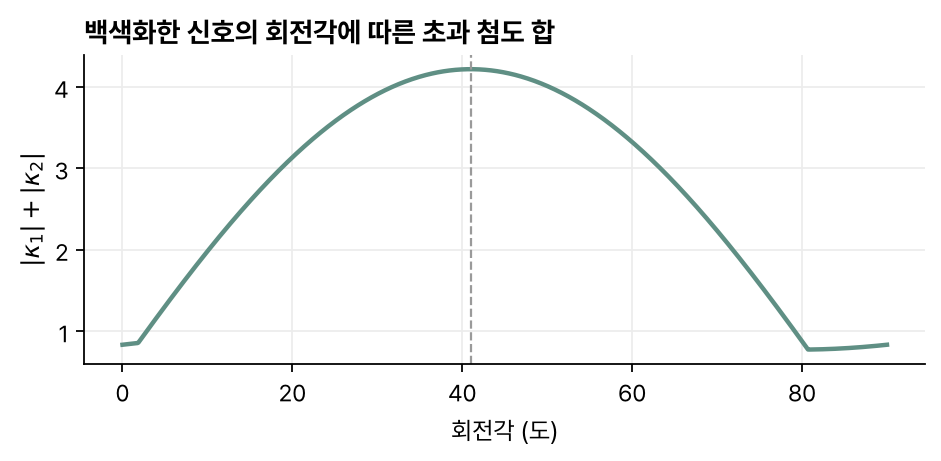
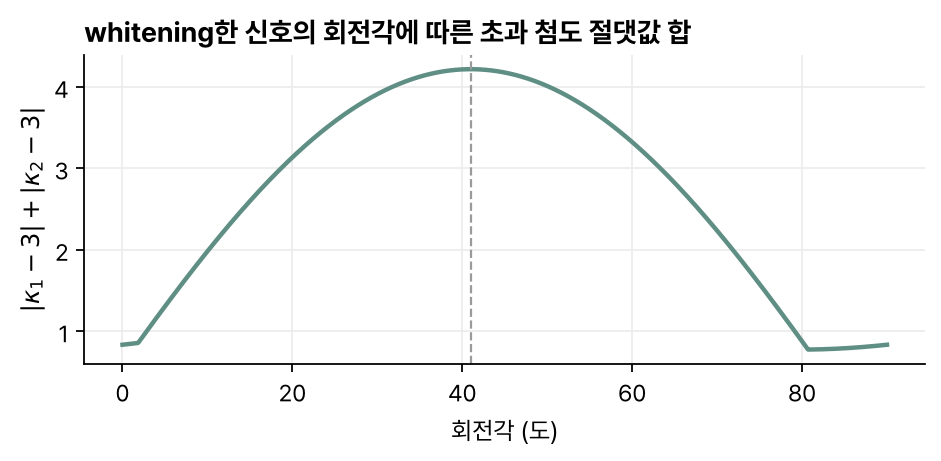
Fix review findings in ICA, ECG and neural interface notes
ICA: use s for sources and phi for the nonlinearity, qualify the
Gaussian-source claim, label facts beyond the lecture notes, write the
kurtosis convention explicitly. ECG: attribute rhythm mechanisms not in
the slides as beyond the lecture material and fix the complete AV block
sentence. Neural interface: wording and attribution fixes.

Claude-Session: https://claude.ai/code/session_01DRUnFxFn4g3T7a1hqi5YWp

diff --git a/scripts/figures/ica.py b/scripts/figures/ica.py
@@ -1,6 +1,6 @@
 """MIT HST.582J 블라인드 신호 분리 문서의 그림.
 
-두 원천(사인파와 라플라스 분포 잡음)을 2×2 행렬로 섞은 뒤, PCA로 백색화하고
+두 원천(사인파와 라플라스 분포 잡음)을 2×2 행렬로 섞은 뒤, PCA로 whitening하고
 첨도의 절댓값 합이 가장 큰 회전을 찾아 분리한다. 2차원이라 회전각을 격자로 훑는다.
 원천, 혼합 행렬, 표본 수는 예로 정한 값이고 모든 값은 직접 계산했다.
 """
@@ -8,16 +8,16 @@
 import numpy as np
 import matplotlib.pyplot as plt
 
-from style import BLUE, GRAY, ORANGE, RED, TEAL, save, setup
+from style import BLUE, GRAY, TEAL, save, setup
 
 setup()
 ARTICLE = "blind-source-separation"
 rng = np.random.default_rng(0)
 M = 2000
 t = np.arange(M)
-z = np.vstack([np.sqrt(2) * np.sin(2 * np.pi * t / 97.0), rng.laplace(0, 1 / np.sqrt(2), M)])
+s = np.vstack([np.sqrt(2) * np.sin(2 * np.pi * t / 97.0), rng.laplace(0, 1 / np.sqrt(2), M)])
 A = np.array([[1.0, 0.6], [0.4, 1.0]])
-x = A @ z
+x = A @ s
 
 
 def kurt(v):
@@ -25,7 +25,7 @@ def kurt(v):
     return np.mean(v**4) - 3
 
 
-# PCA 백색화
+# PCA whitening
 xc = x - x.mean(axis=1, keepdims=True)
 C = xc @ xc.T / M
 d, E = np.linalg.eigh(C)
@@ -43,7 +43,7 @@ R = np.array([[np.cos(a_best), -np.sin(a_best)], [np.sin(a_best), np.cos(a_best)
 y = R @ w
 
 fig, axes = plt.subplots(1, 4, figsize=(11.5, 3.1))
-panels = [(z, "원천 $z$"), (x, "혼합 $x = Az$"), (w, "PCA 백색화"), (y, "첨도 최대화 회전")]
+panels = [(s, "원천 $s$"), (x, "혼합 $x = As$"), (w, "whitening"), (y, "첨도 최대화 회전")]
 for ax, (v, name) in zip(axes, panels):
     ax.plot(v[0], v[1], ".", color=BLUE, ms=1.5, alpha=0.5)
     ax.set_title(name, loc="left")
@@ -57,14 +57,14 @@ fig, ax = plt.subplots(figsize=(6, 3))
 ax.plot(np.degrees(angles), score, color=TEAL, lw=2)
 ax.axvline(np.degrees(a_best), color=GRAY, ls="--", lw=1)
 ax.set_xlabel("회전각 (도)")
-ax.set_ylabel("$|\\kappa_1| + |\\kappa_2|$")
-ax.set_title("백색화한 신호의 회전각에 따른 초과 첨도 합", loc="left")
+ax.set_ylabel("$|\\kappa_1 - 3| + |\\kappa_2 - 3|$")
+ax.set_title("whitening한 신호의 회전각에 따른 초과 첨도 절댓값 합", loc="left")
 fig.tight_layout()
 save(fig, ARTICLE, "kurtosis-vs-angle.png")
 
-print("excess kurtosis sources:", [round(float(kurt(r)), 2) for r in z])
+print("excess kurtosis sources:", [round(float(kurt(r)), 2) for r in s])
 print("excess kurtosis mixtures:", [round(float(kurt(r)), 2) for r in x])
 print("excess kurtosis whitened:", [round(float(kurt(r)), 2) for r in w])
 print("excess kurtosis ICA:", [round(float(kurt(r)), 2) for r in y], "best angle", round(float(np.degrees(a_best)), 1))
-cc = np.corrcoef(np.vstack([z, y]))[:2, 2:]
+cc = np.corrcoef(np.vstack([s, y]))[:2, 2:]
 print("|corr(source, estimate)|:\n", np.round(np.abs(cc), 3))

diff --git a/content/courses/mit-hst582j/blind-source-separation.md b/content/courses/mit-hst582j/blind-source-separation.md
@@ -16,6 +16,8 @@ $$
 
 기본적인 잡음 없는 정방 모형에서 A는 가역이라고 가정한다. 시간에 따른 지연과 주파수별 경로가 크면 순간혼합만으로 충분하지 않다. 관측보다 원천이 많으면 추가 가정 없이는 단순 행렬 역산으로 풀 수 없다.
 
+강의 노트는 칵테일 파티 문제로 블라인드 신호 분리를 설명한다. 여러 사람의 목소리를 같은 수의 마이크로 녹음하면 각 녹음은 목소리들의 가중 선형 합이고, 분리 행렬 $W \approx A^{-1}$을 찾으면 원천을 되찾는다. 원천이 서로 독립이면 결합 밀도는 각 원천 밀도의 곱 $P(s) = \prod_i p(s_i)$다.
+
 새 계산 예 $A=\begin{bmatrix}1&1\\1&-1\end{bmatrix}$에서 원천이 (2,1)ᵀ이면 관측은 (3,1)ᵀ다. A를 안다면 $A^{-1}=A/2$로 원천을 복원한다. Blind 문제에서는 A와 s를 모르기 때문에 관측의 통계적 구조에 추가 가정을 둔다.
 
 ## 중심화와 whitening
@@ -36,8 +38,6 @@ Whitening 뒤의 회전을 찾아 성분 간 의존성을 줄이거나 비정규
 
 ## 비정규성과 첨도
 
-강의 노트는 칵테일 파티 문제로 블라인드 신호 분리를 설명한다. $J$명의 목소리를 $N$개의 마이크로 녹음하면 각 녹음은 목소리들의 가중 선형 합이고, 분리 행렬 $W \approx A^{-1}$을 찾으면 원천을 되찾는다. 원천이 서로 독립이면 결합 밀도는 각 원천 밀도의 곱 $P(s) = \prod_i p(s_i)$다. 강의 노트는 원천과 관측의 수가 같다고 두고, 관측보다 많은 원천은 일반 ICA로 되찾을 수 없다고 적는다.
-
 ICA가 비정규성을 독립성의 기준으로 쓰는 근거는 중심극한정리다. 독립인 확률변수를 더하면 분포가 정규분포에 가까워지므로, 반대로 관측을 되도록 비정규인 성분들로 나누면 그 성분들은 독립에 가깝다. 분산(2차 모멘트)은 독립인 정규 잡음 원천을, 첨도 같은 고차 통계는 비정규인 독립 원천을 나눈다.
 
 $n$차 중심 모멘트를 $\upsilon_n = E\{(x - \mu_x)^n\}$이라 하면 3차를 $\sigma^3$으로 나눈 값이 비대칭도이고, 4차를 $\sigma^4$로 나눈 값이 **첨도**다.
@@ -46,10 +46,10 @@ $$
 \kappa = \frac{E\{(x - \mu_x)^4\}}{\sigma^4}
 $$
 
-정규분포의 첨도는 3이고, 3을 빼서 정규분포를 0으로 맞춘 초과 첨도를 쓰는 관례도 있다. 강의 노트는 3을 빼지 않는 관례를 따르고, 여기서는 초과 첨도를 쓴다. 초과 첨도가 양수이면 정규분포보다 뾰족하고 꼬리가 긴 초정규 분포, 음수이면 더 납작한 아정규 분포다. 사인파는 아정규(초과 첨도 −1.5)이고 라플라스 분포는 초정규(초과 첨도 3)다. 강의 노트는 전원 잡음이 사인파여서 평균 근처보다 극값 근처에 오래 머문다는 점을 정규 잡음 모형이 맞지 않는 예로 든다.
+정규분포의 첨도는 3이고, 3을 빼서 정규분포를 0으로 맞춘 초과 첨도 $\kappa - 3$을 쓰는 관례도 있다. 강의 노트는 본문과 각주에서 3을 빼지 않는 관례를 따르지만, 분포 예를 보여 주는 그림의 값은 초과 첨도로 적는다. 이 글의 수치는 초과 첨도다. 초과 첨도가 양수이면 정규분포보다 뾰족하고 꼬리가 긴 초정규 분포, 음수이면 더 납작한 아정규 분포다. 사인파는 아정규(초과 첨도 −1.5)이고, 라플라스 분포는 초정규(초과 첨도 3, 강의 자료 밖의 값)다. 강의 노트는 전원 잡음이 사인파여서 평균 근처보다 극값 근처에 오래 머문다는 점을 정규 잡음 모형이 맞지 않는 예로 든다.
 
 ![[../../images/blind-source-separation/ica-scatter.png]]
-*그림 1. 사인파와 라플라스 잡음 두 원천(왼쪽)을 행렬 $A = [[1, 0.6], [0.4, 1]]$로 섞은 관측, 중심화와 whitening 결과, whitening한 신호를 회전해 초과 첨도의 절댓값 합을 최대화한 결과(오른쪽)의 산점도. 표본 2000개이고, 원천과 혼합 행렬은 예로 정한 값이다. 직접 계산한 값이다.*
+*그림 1. 사인파와 라플라스 잡음 두 원천(왼쪽)을 행렬 $A = \begin{bmatrix}1&0.6\\0.4&1\end{bmatrix}$로 섞은 관측, 중심화와 whitening 결과, whitening한 신호를 회전해 초과 첨도의 절댓값 합을 최대화한 결과(오른쪽)의 산점도. 표본 2000개이고, 원천과 혼합 행렬은 예로 정한 값이다. 직접 계산한 값이다.*
 
 그림 1에서 원천의 초과 첨도는 −1.49와 2.73이다. 섞으면 −0.49와 2.10, whitening하면 0.12와 0.71로 둘 다 0에 가까워진다. whitening은 상관을 없애지만 원천을 되찾지 못한다. whitening한 신호를 회전하며 초과 첨도의 절댓값 합을 재면 약 41°에서 최대가 되고(그림 2), 이때 두 성분의 초과 첨도는 −1.49와 2.72로 원천과 같아지며, 추정 성분과 원천의 상관계수 절댓값은 1.00이다(직접 계산한 값, 강의 자료 밖의 예).
 
@@ -68,13 +68,13 @@ $$
 J(y) = H(y_G) - H(y)
 $$
 
-는 비정규성의 척도가 된다. $y_G$는 $y$와 공분산이 같은 정규 확률변수다. 네겐트로피는 늘 0 이상이고 $y$가 정규일 때만 0이며, 가역 선형 변환에 대해 변하지 않는다. 확률밀도를 추정해야 해 계산이 어려우므로 근사를 쓴다.
+는 비정규성의 척도가 된다. $y_G$는 $y$와 공분산이 같은 정규 확률변수다. 네겐트로피는 늘 0 이상이고 $y$가 정규일 때만 0이다. 벡터 전체의 네겐트로피는 가역 선형 변환에 대해 변하지 않지만, 출력 하나하나의 네겐트로피는 분리 행렬에 따라 달라진다. 확률밀도를 추정해야 해 계산이 어려우므로 근사를 쓴다.
 
 $$
-J(y) \approx \frac{1}{12}E\{y^3\}^2 + \frac{1}{48}\kappa(y)^2, \qquad J(y) \approx \big[E\{g(y)\} - E\{g(\vartheta)\}\big]^2
+J(y) \approx \frac{1}{12}E\{y^3\}^2 + \frac{1}{48}\big(\kappa(y) - 3\big)^2, \qquad J(y) \approx \big[E\{g(y)\} - E\{g(\vartheta)\}\big]^2
 $$
 
-첫 근사의 $\kappa$는 초과 첨도다. 둘째 근사의 $\vartheta$는 평균 0, 분산 1인 정규 확률변수이고, $g$는 $\frac{1}{\alpha}\ln\cosh(\alpha y)$ ($1 \le \alpha \le 2$)나 $-e^{-y^2/2}$ 같은 2차가 아닌 함수다. 원문의 이 식들은 문자 추출 과정에서 거듭제곱이 빠져 보여, 둘째 근사식의 제곱과 $g(y) = y^4$에서 첨도로 돌아간다는 설명은 맞춰 읽은 것이다.
+첫 근사는 초과 첨도 $\kappa - 3$으로 적었다. 강의 노트는 이를 밝히지 않으며, 3을 빼지 않으면 정규분포에서 근사가 0이 되지 않는다(Hyvärinen 등의 형태). 둘째 근사의 $\vartheta$는 평균 0, 분산 1인 정규 확률변수이고, $g$는 $\frac{1}{\alpha}\ln\cosh(\alpha y)$ ($1 \le \alpha \le 2$)나 $-e^{-y^2/2}$ 같은 2차가 아닌 함수다. $g(y) = y^4$로 두면 둘째 근사는 첨도 기준으로 돌아간다. 원문 식에서 지수를 읽을 수 없어 둘째 근사의 제곱은 표준 형태로 적었다.
 
 ### 상호정보량
 
@@ -88,29 +88,29 @@ $$
 I(y_1, \dots, y_M) = c - \sum_{i} J(y_i)
 $$
 
-이다. 출력 사이의 상호정보량을 최소화하는 일은 각 출력의 네겐트로피를 최대화하는 일과 같다. 강의 노트의 한 각주는 네겐트로피를 0에 가깝게 만든다고 적지만, 위 식과 맞추면 네겐트로피를 크게 만드는 쪽이 독립 성분에 다가가는 방향이다.
+이다. 출력 사이의 상호정보량을 최소화하는 일은 각 출력의 네겐트로피를 최대화하는 일과 같다. 강의 노트의 본문과 각주는 네겐트로피를 최소화하거나 0에 가깝게 한다고 적는다. 같은 각주가 원천을 최대한 비정규로 만든다고 덧붙이고, 위 식과도 맞추면 네겐트로피를 최대화하는 쪽이 독립 성분에 다가가는 방향이다.
 
 ### 최대가능도
 
-원천이 서로 독립이고 각각 가정한 분포 $p_i$를 따르며 관측에 잡음이 없다고 두면, 원천을 주변화해 얻는 로그 가능도는
+원천이 서로 독립이고 각각 가정한 분포 $p_i$를 따르며 관측에 잡음이 없다고 두면, 원천을 주변화해 얻는 표본 하나의 로그 가능도는
 
 $$
 \mathcal{L}(W) = \log_2\vert\det W\vert + \sum_i \log_2 p_i\Big(\sum_j w_{ij}x_j\Big)
 $$
 
-이고, 이를 최대화하는 $W$를 찾는다.
+이고, 이를 모든 표본에 대해 더한 값을 최대화하는 $W$를 찾는다.
 
 ## 경사 상승과 비선형 함수
 
-분리 행렬의 원소는 $\Delta w_{ij} = \eta\,\partial\mathcal{L}/\partial w_{ij}$로 반복 갱신한다($\eta$는 학습률). 로그 가능도의 기울기를 오르면 Bell과 Sejnowski의 학습 규칙 $\Delta W \propto [W^T]^{-1} + \mathbf{z}\mathbf{x}^T$를 얻는다. 여기서 $\mathbf{z}$는 출력에 비선형 함수 $f$를 적용한 값이다.
+분리 행렬의 원소는 $\Delta w_{ij} = \eta\,\partial\mathcal{L}/\partial w_{ij}$로 반복 갱신한다($\eta$는 학습률). 로그 가능도의 기울기를 오르면 Bell과 Sejnowski의 학습 규칙 $\Delta W \propto [W^T]^{-1} + \varphi(\mathbf{y})\mathbf{x}^T$를 얻는다. 여기서 $\varphi$는 출력 $\mathbf{y} = W\mathbf{x}$의 각 성분에 적용하는 비선형 함수다.
 
-비선형 함수의 선택은 원천 분포에 대한 가정과 같다. $f(y_i) = -\tanh(\beta y_i)$는 정규분포보다 꼬리가 무거운 $p_i \propto 1/\cosh$를 가정하는 것이고, $\beta$가 커지면 양쪽 지수분포에, 0에 가까워지면 정규분포에 다가간다. 비선형 함수가 없으면($f(y_i) \propto -y_i$) 원천을 정규분포로 가정하는 셈이고 학습은 2차 비상관화, 곧 PCA와 같은 일을 한다. 정규분포는 회전해도 모양이 같아 축을 고를 정보가 없으므로, 일반 ICA는 비정규 원천만 분리한다.
+비선형 함수의 선택은 원천 분포에 대한 가정과 같다. $\varphi(y_i) = -\tanh(\beta y_i)$는 정규분포보다 꼬리가 무거운 $p_i \propto 1/\cosh$를 가정하는 것이고, $\beta$가 커지면 양쪽 지수분포에, 0에 가까워지면 정규분포에 다가간다. 비선형 함수가 없으면($\varphi(y_i) \propto -y_i$) 원천을 정규분포로 가정하는 셈이고 학습은 2차 비상관화, 곧 PCA와 같은 일을 한다. 강의 노트는 이를 일반 ICA가 비정규 원천만 분리하는 이유로 든다. 정규 원천이 둘 이상이면 그 사이의 회전을 정할 수 없다(위의 «PCA와 독립성» 절).
 
 ## 심전도 적용과 한계
 
 강의 노트는 3 리드 심전도 10초에 ICA를 적용해 심전도, 첨도가 높은 순간적 움직임 아티팩트, 첨도가 낮은 연속 관측 잡음의 세 원천으로 나눈 예를 든다. 대역 안에 있는 QRS 같은 뾰족한 아티팩트도 따로 떼어 낸다. 강의 노트가 드는 한계는 셋이다.
 
-- 정상 혼합: 숨을 들이쉬면 가슴이 커지고 심장이 조금 내려가며 회전해, 혼합 행렬이 호흡 주기로 변한다. 고정 혼합 가정은 회전각이 작을 때만 성립하고, 리드 배치에 따라 ICA의 효과가 다른 주요 원인이다.
+- 고정 혼합: 숨을 들이쉬면 가슴이 커지고 심장이 조금 내려가며 회전해, 혼합 행렬이 호흡 주기로 변한다. 강의 노트는 회전이 작을 때 고정 혼합 가정이 근사로 성립한다고 보고, 이것을 리드 배치에 따라 ICA의 효과가 달라지는 주요 원인으로 든다.
 - 독립성: 피험자의 활동이 갑자기 늘면 근육 아티팩트와 함께 심박수나 박동 모양이 바뀔 수 있다. 둘이 강하게 관련되면 ICA로 나눌 수 없다.
 - 원천의 수: 두 귀로 여러 화자를 듣는 경우처럼 원천이 더 많으면 과소결정이고, 12 리드 심전도처럼 관측이 더 많으면 원천 수를 몇 개로 가정하느냐에 따라 각 원천의 추정이 달라진다.
 
@@ -124,7 +124,6 @@ $$
 
 - 독립 성분 수와 생물학적 발생원 수를 자동으로 동일시하지 않는다.
 - 분리된 성분의 낮은 상관만으로 독립성을 입증하지 않는다.
-- 비정상성·움직임·혼합 행렬 변화가 큰 기록에는 고정 A 가정의 한계가 있다.
 - 첨도는 0을 정규분포로 두는 관례와 3을 정규분포로 두는 관례가 함께 쓰인다. 값을 비교할 때 어느 관례인지 확인한다.
 
 ## 관련 개념
@@ -132,7 +131,7 @@ $$
 - [[pca-svd|PCA와 SVD]]
 - [[covariance-matrix|공분산 행렬]]
 - [[expectation-variance-covariance|무상관과 독립]]
-- [[probability-random-variables|확률변수]]: 중심극한정리와 모멘트
+- [[probability-random-variables|확률변수]]: 중심극한정리
 
 ## 참고 자료
 

diff --git a/content/my-courses/neural-interface/wireless-power-telemetry.md b/content/my-courses/neural-interface/wireless-power-telemetry.md
@@ -16,11 +16,11 @@ description: 이식형 신경 기록 장치가 선 없이 데이터를 보내고
 - 인공와우: 한 쌍의 코일을 유도 결합해 피부 너머로 데이터와 전력을 함께 보낸다.
 - 뇌심부 자극기(DBS): 몸의 다른 곳에 둔 장치에서 피하 전선으로 전력과 데이터를 받는다.
 
-두 방식 모두 해마다 수십만 개가 이식된다. 신경 기록 장치는 구조를 단순하게 하고 인허가 부담을 덜기 위해 이 방식을 따르며, 특히 인공와우의 유도 결합 방식을 원격 측정과 전력 전달에 널리 쓴다.
+두 방식을 합쳐 해마다 수십만 개가 이식된다. 신경 기록 장치는 구조를 단순하게 하고 인허가 부담을 덜기 위해 이 방식을 따르며, 특히 인공와우의 유도 결합 방식을 원격 측정과 전력 전달에 널리 쓴다.
 
 ## 데이터 전송
 
-여러 채널의 세포 밖 활동 전위를 동시에 기록하면 앞단 회로뿐 아니라 전압 제어 발진기, 전력 증폭기, LC 탱크 같은 무선 송수신 회로에도 부담이 생긴다. 100채널 기록의 데이터율은 보통 50 Mbps 아래여서 데이터율 자체보다, 좁은 전력 예산 안에서 충실한 링크를 유지하는 일이 어렵다. 전력 소모는 열로 조직을 손상시킬 수 있고, 신경 증폭기는 100채널에 mW 수준만 쓰도록 설계하므로 송신기도 같은 수준의 예산 안에서 동작해야 한다.
+여러 채널의 세포 밖 활동 전위를 동시에 기록하면 앞단 회로뿐 아니라 전압 제어 발진기, 전력 증폭기, LC 탱크 같은 무선 송수신 회로에도 부담이 생긴다. 100채널 기록의 데이터율은 보통 50 Mbps 아래여서 데이터율 자체보다, 좁은 전력 예산 안에서 신호를 잃지 않고 전하는 링크를 유지하는 일이 어렵다. 전력 소모는 열로 조직을 손상시킬 수 있고, 일부 신경 증폭기 설계는 100채널에 mW 수준만 쓰므로 송신기도 비슷한 예산 안에서 동작해야 한다.
 
 | 방식 | 특징 |
 | --- | --- |
@@ -33,7 +33,7 @@ description: 이식형 신경 기록 장치가 선 없이 데이터를 보내고
 
 ## 유도 결합 전력 전달
 
-유도 결합 링크는 몸 안 2차 코일이 전력 전송 거리에 비해 비교적 클 때만 효율적이어서, 이식 장치의 크기가 2차 코일 크기로 정해지는 경우가 많다. 원문은 네 개의 높은 Q 코일로 이루어진 공진형 무선 전력 전달이 더 먼 거리에서 효율을 얻은 예를 든다.
+유도 결합은 전송 거리에 견주어 몸 안 코일이 충분히 커야 효율이 나온다. 그래서 이식 장치 전체의 크기를 코일이 정하는 일이 많다. 원문은 네 개의 높은 Q 코일로 이루어진 공진형 무선 전력 전달이 더 먼 거리에서 효율을 얻은 예를 든다.
 
 이 관계를 두 원형 고리로 계산해 볼 수 있다(이 절의 식과 그림 1은 원문 밖의 계산이다). 두 코일의 상호 인덕턴스 $M$과 자기 인덕턴스 $L_1$, $L_2$로 **결합 계수**를 $k = M/\sqrt{L_1L_2}$로 정의한다. 두 코일이 각각 공진하고 부하를 최적으로 맞추면 링크 효율의 최댓값은
 
@@ -44,7 +44,7 @@ $$
 로 $k^2Q_1Q_2$ 하나로 정해진다. 결합이 약해도 $Q$가 크면 효율을 되찾을 수 있으므로, 높은 Q 공진 코일이 먼 거리 전력 전달에 쓰인다.
 
 ![[../../images/wireless-power-telemetry/coupling-efficiency.png]]
-*그림 1. 왼쪽은 같은 축 위의 두 원형 고리(외부 반지름 15 mm, 도선 반지름 0.1 mm)에서 이식 고리 반지름과 거리에 따른 결합 계수다. 오른쪽은 결합 계수와 두 코일의 Q에 따른 최대 링크 효율이다. 크기와 Q는 예로 정한 값이고, 상호 인덕턴스는 타원 적분으로 직접 계산했다.*
+*그림 1. 왼쪽은 같은 축 위의 두 원형 고리(외부 고리 반지름 15 mm, 도선 반지름 0.1 mm)에서 이식 고리 반지름과 거리에 따른 결합 계수다. 오른쪽은 결합 계수와 두 코일의 Q에 따른 최대 링크 효율이다. 크기와 Q는 예로 정한 값이고, 상호 인덕턴스는 타원 적분으로 직접 계산했다.*
 
 그림 1의 예에서 거리 10 mm일 때 이식 고리 반지름이 10 mm이면 $k \approx 0.092$이고, $Q_1 = Q_2 = 50$에서 최대 효율은 약 65%다. 반지름을 3 mm로 줄이면 $k \approx 0.019$, 효율은 약 16%로, 1 mm로 줄이면 $k \approx 0.0045$, 효율은 약 1.2%로 떨어진다. 같은 1 mm 고리라도 Q를 200으로 높이면 효율이 약 15%로 오른다(직접 계산한 값).
 
@@ -54,17 +54,17 @@ $$
 
 - 중간장 전력 전달: 슬롯 안테나 같은 특수한 송신원이 멀리 떨어진 목표 위치에 초점을 맞춘 방사 패턴을 만든다. 조직 모사 용액 안에서 1.6 GHz로 동작하는 2 mm 수신 코일에 5.5 cm 거리에서 입력 500 mW로 200 µW를 전달했다. 신경 기록까지 시연하지는 않았다.
 - 광 전력 전달: 탠덤 3중 접합 GaAs/AlGaAs 광전지로 외부 레이저의 적외선 빛을 12 mW 전력으로 바꿔 16채널 기록 장치를 마취한 쥐에서 동작시켰다. 광전지는 들어오는 빛에서 동기 클록도 뽑아 순방향 원격 측정 역할도 한다.
-- 초음파 전력 전달: 외부 질문기의 초음파로 아주 작은 센서 노드(신경 먼지)에 전력을 주고, 노드는 초음파 후방 산란에 신경 데이터를 실어 돌려보낸다. 실제 신경 기록은 보고되지 않았고, 저자들은 뇌 속 2 mm에 묻힌 100 µm 크기 노드에서 약 7%의 효율을 시뮬레이션으로 제시했다.
+- 초음파 전력 전달: 외부 송수신기의 초음파로 아주 작은 센서 노드(신경 먼지)에 전력을 주고, 노드는 초음파 후방 산란에 신경 데이터를 실어 돌려보낸다. 실제 신경 기록은 보고되지 않았고, 저자들은 뇌 속 2 mm에 묻힌 100 µm 크기 노드에서 약 7%의 효율을 시뮬레이션으로 제시했다.
 
 ## 봉지
 
-능동 전자 회로를 체액과 몸에서 분리하는 일은 이식 의료기기에서 가장 중요한 문제 가운데 하나다. 만성 신경 기록 장치는 열 발산이 작고 패키지가 아주 얇아야 한다는 조건이 더해진다. 봉지의 목적은 세 가지다.
+이식 의료기기는 능동 전자 회로를 체액과 몸에서 떼어 놓아야 하고, 원문은 이것을 가장 중요한 과제 가운데 하나로 꼽는다. 만성 신경 기록 장치는 열 발산이 작고 패키지가 아주 얇아야 한다는 조건이 더해진다. 봉지의 목적은 세 가지다.
 
 1. 생체 적합하지 않은 재료로부터 몸을 보호한다.
 2. 체액으로부터 전자 회로를 보호한다.
 3. 기계적 응력으로부터 조립체를 보호한다.
 
-핵심은 물과 물에 녹은 이온이 장벽을 어느 방향으로든 통과하지 못하게 하는 것이다. 티타늄이나 유리로 밀봉한 패키지는 생체 적합성이 좋고 물과 기체 투과율이 매우 낮으며 튼튼하지만 크다. 초기 장치에는 다루기 쉽고 생체 적합한 PDMS(실리콘 엘라스토머)를 두껍게 입혔고, 물에 약한 부분일수록 두께를 달리하기도 했다. 최근에는 물 흡수와 투과가 훨씬 적은 열가소성 고분자인 액정 고분자(LCP)를 봉지재나 유연 기판으로 쓴다.
+봉지 장벽은 물과 물에 녹은 이온을 어느 방향으로도 통과시키지 않아야 한다. 티타늄이나 유리로 밀봉한 패키지는 생체 적합성이 좋고 물과 기체 투과율이 매우 낮으며 튼튼하지만 크다. 초기 장치에는 다루기 쉽고 생체 적합한 PDMS(실리콘 엘라스토머)를 두껍게 입혔고, 물에 약한 정도가 부분마다 달라 장벽 두께를 부분마다 달리했다. 최근에는 물 흡수와 투과가 훨씬 적은 열가소성 고분자인 액정 고분자(LCP)를 봉지재나 유연 기판으로 쓴다.
 
 ## 유의점
 
@@ -80,7 +80,7 @@ $$
 - [[asbit-wireless-sensor-network|논문: ASBIT 무선 센서 네트워크]]: 많은 무선 센서의 비동기 데이터 전송
 - [[neurograin-wireless-microimplants|논문: 뉴로그레인]]: 무선 미세 이식체 네트워크
 - [[patterned-wireless-brain-stimulation|논문: 분산 무선 칩 뇌 자극]]: 무선 이식 칩 네트워크로 하는 뇌 자극
-- [[modulation|변조]]: FM과 주파수 편이
+- [[modulation|변조]]: FM
 
 ## 참고 자료
 

diff --git a/content/my-courses/neural-interface/electrode-tissue-interface.md b/content/my-courses/neural-interface/electrode-tissue-interface.md
@@ -24,25 +24,25 @@ description: 뇌에 심은 미세전극의 기록 성능이 시간에 따라 떨
 
 세포들은 시점을 달리해 모인다. 몇 시간 안에 대식세포가 도착하고 주변의 미세아교세포가 이동해 오며, 약 1주 뒤에는 희돌기교세포 전구세포가 모이고, 뇌막을 지나 손상되었으면 뇌막 내피세포도 들어온다. 마지막으로 성상세포가 천천히 이동해 신경교 흉터를 만든다. 흉터 조직의 대부분이 늘어나거나 이동해 온 성상세포여서, 성상세포 표지 단백질(GFAP) 면역조직화학 염색이 손상 정도를 재는 흔한 방법이다.
 
-신경교증은 혈관이 터지면서 시작된다고 받아들여진다. 혈액의 TGF-β 같은 분자가 성상세포 증식을 일으키고, 인터페론-γ와 인터류킨 같은 사이토카인이 염증 반응에 참여한다. 전극을 삽입하면 혈뇌장벽을 포함한 조직 손상이 피할 수 없이 따른다.
+신경교증은 혈관이 손상되면서 시작된다고 받아들여진다. 혈액의 TGF-β 같은 분자가 성상세포 증식을 일으키고, 인터페론-γ와 인터류킨 같은 사이토카인이 염증 반응에 참여한다. 전극을 삽입하면 혈뇌장벽을 포함한 조직 손상이 피할 수 없이 따른다.
 
-신경퇴행 질환에서 신경교증은 주변 조직을 보호하고 손상 부위를 격리하는 반응으로 여겨지지만, 뇌-컴퓨터 인터페이스에서는 바라지 않는 반응이다. 장기 반응으로 생긴 피막은 두께가 수백 µm에 이를 수 있고, 절연층처럼 작용해 전극-전해질 경계의 전기화학 임피던스를 크게 높이며 뉴런이 전극 가까이 오는 것을 막는다. 신경교 반응의 정도는 혈관 손상에 따라 달라 임피던스 증가가 전극마다 고르지 않고, 이것이 기록이 불안정해지고 전극이 기능을 잃는 원인이 된다.
+신경퇴행 질환에서 신경교증은 주변 조직을 보호하고 손상 부위를 격리하는 반응으로 여겨지지만, 뇌-컴퓨터 인터페이스에서는 바라지 않는 반응이다. 장기 반응으로 생긴 피막은 두께가 수백 µm에 이를 수 있고, 절연층처럼 작용해 전극-전해질 경계의 전기화학 임피던스를 크게 높이며 뉴런이 전극 가까이 오는 것을 막는다. 혈관이 얼마나 손상됐는지가 전극마다 달라 신경교 반응과 임피던스 증가도 고르지 않다. 원문은 이 불균일을 기록 불안정과 전극 고장의 원인으로 든다.
 
 ## 전극 크기와 임피던스
 
-전극 밀도를 높이려면 전극 자리의 크기, 전극 축(shank)의 두께, 축 사이 간격을 줄여야 한다. 원문은 이때 생기는 충돌을 둘로 든다.
+전극 밀도를 높이려면 기록 부위의 크기, 전극 축(shank)의 두께, 축 사이 간격을 줄여야 한다. 원문은 이때 생기는 충돌을 둘로 든다.
 
-- 전극 자리가 작아지면 전극-전해질 경계의 임피던스가 커져 열잡음이 커지고, 신호가 전극 임피던스에 비례해 감쇠하므로 입력 임피던스가 더 큰 증폭기가 필요하다.
+- 기록 부위가 작아지면 전극-전해질 경계의 임피던스가 커져 열잡음이 커지고, 신호가 전극 임피던스에 비례해 감쇠하므로 입력 임피던스가 더 큰 증폭기가 필요하다.
 - 축 두께를 그대로 두고 간격만 줄이면 조직 손상과 삽입 힘이 커진다. 간격이 좁은 배열이 6주 뒤 더 심한 조직 반응을 보였고, 밀도가 낮은 탐침에서 신경교 반응이 유의하게 작았다는 보고가 있다. 미세 움직임과 기계적 변형을 줄이는 것이 신경교 흉터를 줄이는 열쇠로 여겨진다.
 
 ![[../../images/electrode-tissue-interface/impedance-noise.png]]
 *그림 1. 원형 전극을 정위상 요소(면적에 비례, 지수 0.8)와 확산 저항(지름에 반비례)의 직렬로 단순화해 계산한 1 kHz 임피던스(왼쪽)와 300 Hz–10 kHz 대역의 열잡음 실효값(오른쪽). 거칠기 계수는 실제 면적과 기하 면적의 비다. 모형과 값(면적당 계수 20 µF·s⁻⁰·²/cm², 조직 저항률 3 Ω·m, 310 K)은 예로 정한 것이고 원문 밖의 계산이다.*
 
-그림 1은 원문이 말하는 경향을 단순한 등가회로로 확인한 것이다. 경계의 임피던스는 면적에 반비례하므로 지름을 절반으로 줄이면 약 4배가 되고, 열잡음 전력 밀도 $4kT\,\mathrm{Re}(Z)$도 함께 커진다. 이 예에서 지름 50 µm 매끈한 전극의 1 kHz 임피던스는 약 2.3 MΩ, 열잡음은 약 7.4 µV이고, 지름 10 µm에서는 약 58 MΩ, 35 µV다. 표면 거칠기 계수를 30으로 높이면 지름 10 µm 전극의 임피던스는 약 2.0 MΩ, 열잡음은 약 8.1 µV로 내려간다. 거칠기를 높여도 확산 저항은 기하 형상으로 정해져 줄지 않는다(직접 계산한 값).
+그림 1은 원문이 적은 경향을 단순한 등가회로로 확인한 것이다. 경계의 임피던스는 면적에 반비례하므로 지름을 절반으로 줄이면 약 4배가 되고, 열잡음 전력 밀도 $4kT\,\mathrm{Re}(Z)$도 함께 커진다. 이 예에서 지름 50 µm 매끈한 전극의 1 kHz 임피던스는 약 2.3 MΩ, 열잡음은 약 7.4 µV이고, 지름 10 µm에서는 약 58 MΩ, 35 µV다. 표면 거칠기 계수를 30으로 높이면 지름 10 µm 전극의 임피던스는 약 2.0 MΩ, 열잡음은 약 8.1 µV로 내려간다. 거칠기를 높여도 확산 저항은 기하 형상으로 정해져 줄지 않는다(직접 계산한 값).
 
 ### 임피던스를 낮추는 표면
 
-전극을 작게 하면서 임피던스를 낮추는 전형적인 방법은 표면을 거칠게 하는 것이다. 다공성 백금, 거친 폴리실리콘, 질화 티타늄 같은 기둥 구조가 쓰인다. 산화 이리듐이나 백금 같은 비분극성 재료도 쓰인다. 최근에는 주어진 기하 면적에서 표면적을 최대화하는 전도성 고분자를 입히고, 그 가운데 PEDOT 막을 입힌 전극은 6주 이식 뒤에도 신호 대 잡음비가 높고 특성이 안정했다는 보고가 있다.
+전극을 작게 하면서 임피던스를 낮추려면 흔히 표면을 거칠게 한다. 다공성 백금, 거친 폴리실리콘, 질화 티타늄 같은 기둥 구조가 쓰인다. 원문이 비분극성 재료로 분류하는 산화 이리듐이나 백금도 쓰인다. 최근에는 주어진 기하 면적에서 표면적을 최대화하는 전도성 고분자를 입히고, 그 가운데 PEDOT 막을 입힌 전극은 6주 이식 뒤에도 신호 대 잡음비가 높고 특성이 안정했다는 보고가 있다.
 
 ### 가는 전극
 

diff --git a/content/courses/mit-hst582j/bayes-classifier-detection.md b/content/courses/mit-hst582j/bayes-classifier-detection.md
@@ -50,7 +50,7 @@ $$
 P_E = P_1 + \int_{R_1}\big[P_0\,p_0(x) - P_1\,p_1(x)\big]\,dx
 $$
 
-가 된다. $P_0p_0$와 $P_1p_1$은 모두 음이 아니므로 둘의 차의 부호만 보면 되고, $P_E$를 가장 작게 하려면 피적분 함수가 음수인 곳을 모두 $R_1$에 넣어야 한다.
+가 된다. $P_0p_0$와 $P_1p_1$은 모두 음이 아니다. $P_E$를 가장 작게 하려면 피적분 함수가 음수인 곳을 모두 $R_1$에 넣어야 한다.
 
 $$
 R_1 = \{x : P_1\,p_1(x) > P_0\,p_0(x)\} \quad\Longleftrightarrow\quad \frac{p_1(x)}{p_0(x)} > \frac{P_0}{P_1}
